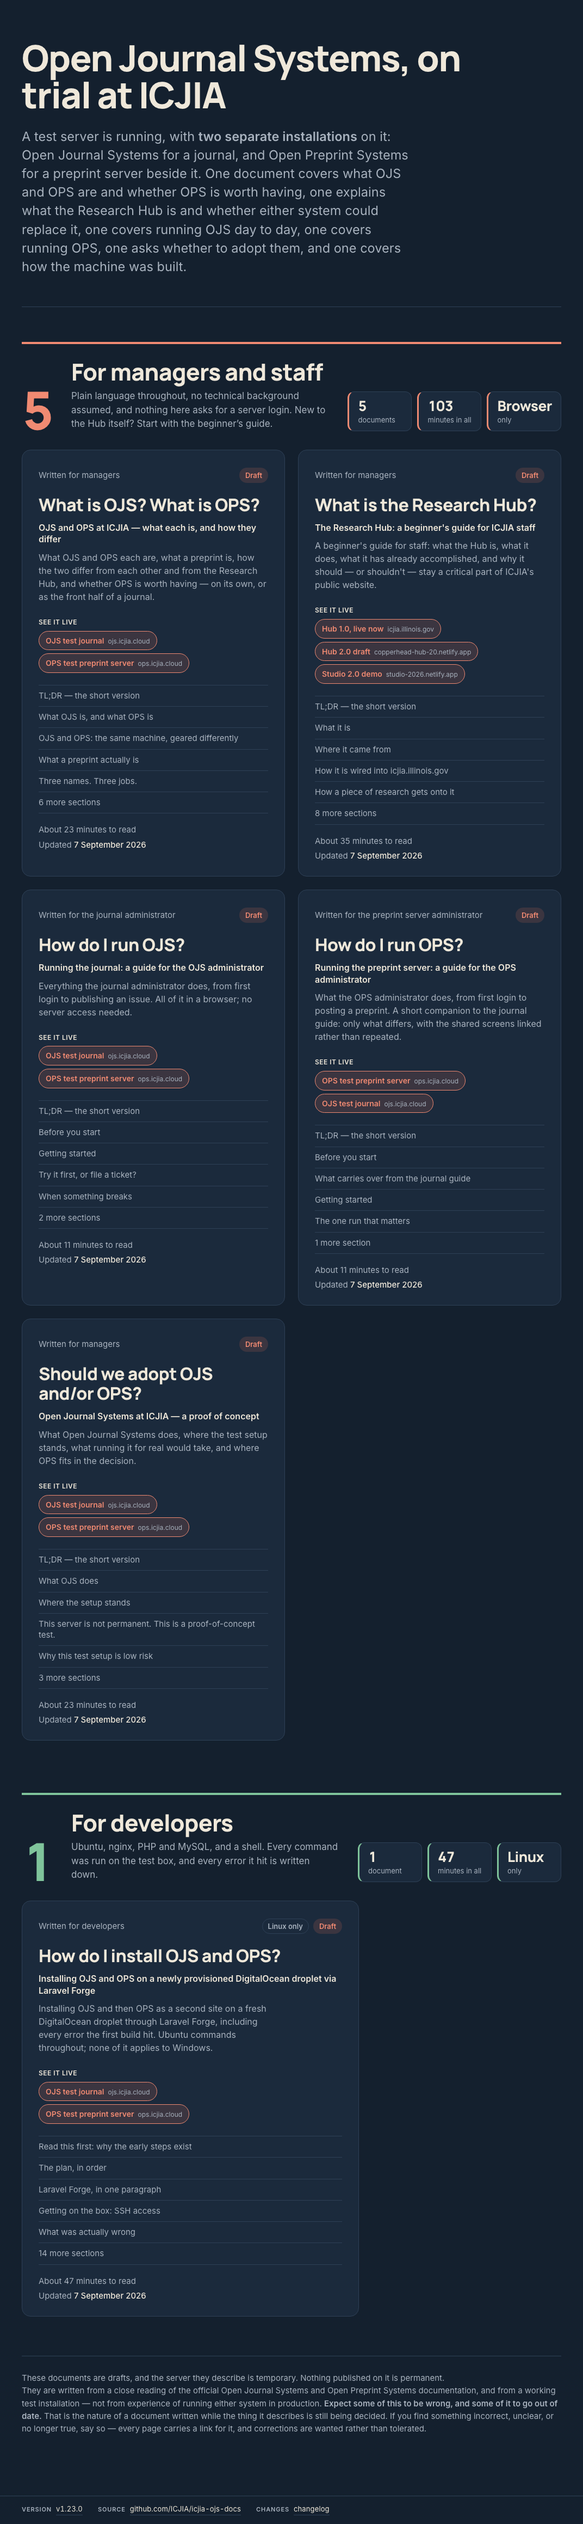
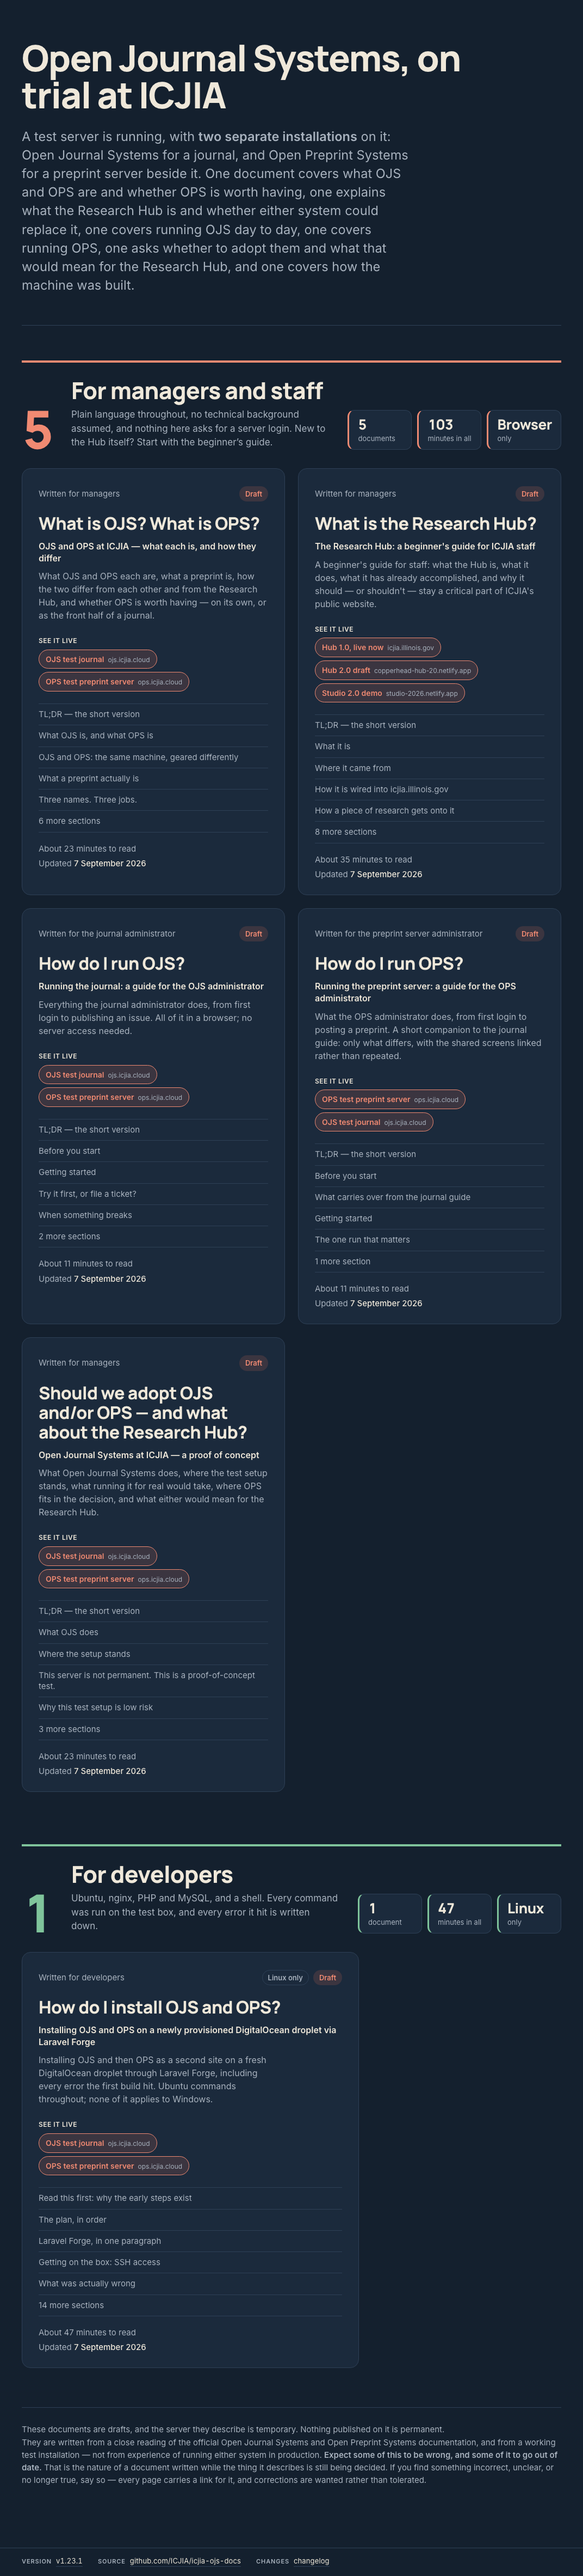
Release 1.23.1: the adoption card asks the whole question, and each page opens with its card's question
"Should we adopt OJS and/or OPS?" is now "Should we adopt OJS and/or OPS
- and what about the Research Hub?" on the card, in the portal lede, in
the README and on the banner, where the row runs to three lines with the
shelf lifted 28px so the developer row and the footer facts stay put.

Every document's h1 now repeats its card's question word for word; the
descriptive <title> stays as the subtitle on the card, in the sticky
header and in the browser tab. Four documents changed headline (the two
administrator guides, the proof of concept and the runbook); two already
matched. A build-output test holds h1 and question together, decoding the
entities headings use, so a renamed card cannot drift from its page.

Screenshots retaken, banner re-rendered at 213 tests, changelog entry
added.

diff --git a/tests/build-output.test.ts b/tests/build-output.test.ts
@@ -7,6 +7,23 @@ import pkg from '../package.json';
 
 const root = fileURLToPath(new URL('..', import.meta.url));
 const dist = (p: string) => fileURLToPath(new URL(`../dist/${p}`, import.meta.url));
+
+/** Decode the handful of entities the documents use inside headings. */
+const decodeEntities = (s: string) =>
+  s
+    .replace(/&mdash;/g, '\u2014')
+    .replace(/&ndash;/g, '\u2013')
+    .replace(/&nbsp;/g, ' ')
+    .replace(/&rsquo;/g, '\u2019')
+    .replace(/&lsquo;/g, '\u2018')
+    .replace(/&ldquo;/g, '\u201c')
+    .replace(/&rdquo;/g, '\u201d')
+    .replace(/&hellip;/g, '\u2026')
+    .replace(/&quot;/g, '"')
+    .replace(/&#39;|&#x27;/g, "'")
+    .replace(/&#(\d+);/g, (_, n) => String.fromCodePoint(Number(n)))
+    .replace(/&#x([0-9a-f]+);/gi, (_, h) => String.fromCodePoint(parseInt(h, 16)))
+    .replace(/&amp;/g, '&');
 const read = (p: string) => readFileSync(dist(p), 'utf8');
 
 /** The named and numeric entities Astro emits when escaping interpolated text. */
@@ -40,6 +57,18 @@ describe('build output', () => {
       for (const live of entry.live ?? []) {
         expect(html, `${entry.slug}: live link ${live.href} missing from its card`).toContain(`href="${live.href}"`);
       }
+    }
+  });
+
+  it('opens every page with its card question as the h1', () => {
+    // The card's question is what a reader clicks; the page they land on must
+    // open with the same words. The descriptive <title> stays the subtitle.
+    for (const entry of documents) {
+      const html = readFileSync(dist(`docs/${entry.slug}/index.html`), 'utf8');
+      const match = html.match(/<h1[^>]*>([\s\S]*?)<\/h1>/);
+      expect(match, `${entry.slug} has an h1`).not.toBeNull();
+      const h1 = decodeEntities(match![1].replace(/<[^>]+>/g, '')).replace(/\s+/g, ' ').trim();
+      expect(h1, `${entry.slug}: the h1 must echo the card question`).toBe(entry.question);
     }
   });
 

diff --git a/src/documents/forge-droplet-runbook.html b/src/documents/forge-droplet-runbook.html
@@ -160,7 +160,7 @@
 <main class="page">
 
 <header>
-  <h1>Installing OJS and OPS on a newly provisioned DigitalOcean droplet via Laravel Forge</h1>
+  <h1>How do I install OJS and OPS?</h1>
   <p class="lede">Runbook for a brand-new Laravel Forge server on DigitalOcean, carrying <b>two separate installations</b> on one box: the CPU-eating package to remove first, the reason the site didn't serve, the prep before installing OJS, the install itself, the Mailgun hookup, then OPS as a second site &mdash; and the hardening, memory tuning, backups, upgrades and restores that from then on have to cover both.</p>
   <p class="updated"><span class="lab">Last updated</span><time datetime="2026-09-07">7 September 2026</time></p>
   <p class="see"><span class="k">See it live:</span> <a href="https://ojs.icjia.cloud/">OJS test journal <small>ojs.icjia.cloud</small></a> <a href="https://ops.icjia.cloud/">OPS test preprint server <small>ops.icjia.cloud</small></a> <span class="why">Both answer over HTTPS now; <a href="https://uptime.icjia.app">uptime.icjia.app</a> watches them.</span></p>

diff --git a/src/documents/ops-administrator-guide.html b/src/documents/ops-administrator-guide.html
@@ -271,7 +271,7 @@
 <main class="page">
 
 <header>
-  <h1>Running the preprint server</h1>
+  <h1>How do I run OPS?</h1>
   <p class="lede">Everything the OPS administrator does, from first login to posting a preprint &mdash; all of it in a web browser.</p>
   <p class="updated"><span class="lab">Last updated</span><time datetime="2026-09-07">7 September 2026</time></p>
   <p class="see"><span class="k">See it live:</span> <a href="https://ops.icjia.cloud/">OPS test preprint server <small>ops.icjia.cloud</small></a> <a href="https://ojs.icjia.cloud/">OJS test journal <small>ojs.icjia.cloud</small></a> <span class="why">Both are up now. The public pages need no login; your administrator screens need the OPS login IDS sent you, which is not the OJS one.</span></p>

diff --git a/src/documents/ojs-administrator-guide.html b/src/documents/ojs-administrator-guide.html
@@ -271,7 +271,7 @@
 <main class="page">
 
 <header>
-  <h1>Running the journal</h1>
+  <h1>How do I run OJS?</h1>
   <p class="lede">Everything the OJS administrator does, from first login to publishing an issue &mdash; all of it in a web browser.</p>
   <p class="updated"><span class="lab">Last updated</span><time datetime="2026-09-07">7 September 2026</time></p>
   <p class="see"><span class="k">See it live:</span> <a href="https://ojs.icjia.cloud/">OJS test journal <small>ojs.icjia.cloud</small></a> <a href="https://ops.icjia.cloud/">OPS test preprint server <small>ops.icjia.cloud</small></a> <span class="why">Both are up now. The public pages need no login; your administrator screens need the login IDS sent you.</span></p>

diff --git a/src/content/documents.ts b/src/content/documents.ts
@@ -39,9 +39,9 @@ export const documents: DocumentEntry[] = [
   {
     slug: 'ojs-proof-of-concept',
     file: 'ojs-proof-of-concept.html',
-    question: 'Should we adopt OJS and/or OPS?',
+    question: 'Should we adopt OJS and/or OPS — and what about the Research Hub?',
     summary:
-      'What Open Journal Systems does, where the test setup stands, what running it for real would take, and where OPS fits in the decision.',
+      'What Open Journal Systems does, where the test setup stands, what running it for real would take, where OPS fits in the decision, and what either would mean for the Research Hub.',
     audience: 'Written for managers',
     status: 'draft',
     order: 5,

diff --git a/src/documents/ojs-proof-of-concept.html b/src/documents/ojs-proof-of-concept.html
@@ -280,7 +280,7 @@
 <main class="page">
 
   <header>
-    <h1>A test drive of Open Journal Systems</h1>
+    <h1>Should we adopt OJS and/or OPS &mdash; and what about the Research Hub?</h1>
     <p class="lede">
       <b>Open Journal Systems (OJS)</b> is free software for running a research journal:
       it collects submissions, routes them to reviewers, tracks edits, and publishes the

diff --git a/README.md b/README.md
@@ -10,7 +10,7 @@
   <a href="https://ojs-docs.netlify.app"><img alt="Live site" src="https://img.shields.io/badge/live-ojs--docs.netlify.app-f08a72?style=flat-square&labelColor=14202e"></a>
   <a href="https://github.com/ICJIA/icjia-ojs-docs/releases"><img alt="Release" src="https://img.shields.io/github/v/release/ICJIA/icjia-ojs-docs?style=flat-square&color=f08a72&labelColor=14202e"></a>
   <a href="#accessibility"><img alt="WCAG 2.1 AA" src="https://img.shields.io/badge/WCAG_2.1-AA-7fc49b?style=flat-square&labelColor=14202e"></a>
-  <a href="#tests"><img alt="Tests" src="https://img.shields.io/badge/tests-212_passing-7fc49b?style=flat-square&labelColor=14202e"></a>
+  <a href="#tests"><img alt="Tests" src="https://img.shields.io/badge/tests-213_passing-7fc49b?style=flat-square&labelColor=14202e"></a>
   <img alt="Astro 7" src="https://img.shields.io/badge/Astro-7-f08a72?style=flat-square&labelColor=14202e">
   <a href="LICENSE"><img alt="MIT license" src="https://img.shields.io/badge/license-MIT-a8b2be?style=flat-square&labelColor=14202e"></a>
 </p>
@@ -23,8 +23,8 @@ Six documents are published today — an explainer of what OJS and OPS are
 and whether OPS is worth having, a beginner's guide to the Research Hub for staff
 that also answers whether either system could replace it, a guide for the
 journal administrator, a shorter one for the preprint server administrator, an
-overview for managers asking whether to adopt either system, and an
-installation runbook for developers. The managers' shelf defines things first
+overview for managers asking whether to adopt either system and what that would
+mean for the Research Hub, and an installation runbook for developers. The managers' shelf defines things first
 and ends on the adoption question. Each was added as advertised: one entry in
 the manifest, and the card, the route, the contents and the statistics followed
 on their own.
@@ -47,7 +47,7 @@ before changing any styling.
 
 <p align="center">
   <a href="https://ojs-docs.netlify.app/docs/droplet-runbook/">
-    <img src="docs/assets/runbook.png" alt="A document page: the portal's sticky header — back link, the runbook's title &ldquo;Installing OJS and OPS on a newly provisioned DigitalOcean droplet via Laravel Forge&rdquo;, and a Contents button — above the runbook's own title, lede, last-updated stamp and its strip of facts about the box: Ubuntu 26.04, Forge-provisioned, the symptom, and what it ends with. The status bar is pinned along the bottom of the viewport." width="900">
+    <img src="docs/assets/runbook.png" alt="A document page: the portal's sticky header — back link, the runbook's title &ldquo;Installing OJS and OPS on a newly provisioned DigitalOcean droplet via Laravel Forge&rdquo;, and a Contents button — above the runbook's own headline, &ldquo;How do I install OJS and OPS?&rdquo;, its lede, last-updated stamp and its strip of facts about the box: Ubuntu 26.04, Forge-provisioned, the symptom, and what it ends with. The status bar is pinned along the bottom of the viewport." width="900">
   </a>
 </p>
 
@@ -55,7 +55,10 @@ before changing any styling.
 
 ## Adding a document
 
-1. Put the HTML file in `src/documents/`.
+1. Put the HTML file in `src/documents/`. Its `<h1>` must be the card's
+   question, word for word — a test holds the two together — and its `<title>`
+   is the descriptive subtitle shown on the card, in the sticky header and in
+   the browser tab.
 2. Append an entry to `documents` in [`src/content/documents.ts`](src/content/documents.ts):
 
    ```ts
@@ -349,7 +352,7 @@ a version has no tag.
 
 ## Tests
 
-212 tests across six files.
+213 tests across six files.
 
 [`tests/parse-document.test.ts`](tests/parse-document.test.ts) covers the parser,
 which is a pure function: extraction, heading-id injection and slug
@@ -358,6 +361,7 @@ document has no title, headings, stylesheet or script.
 
 [`tests/build-output.test.ts`](tests/build-output.test.ts) builds the site and
 asserts on `dist/` — that every manifest entry produced a page, that each
+page opens with its card's question as its `h1`, that each
 document survived the wrap intact (every code block, its clipboard handler,
 its webfonts), that the document stylesheet still precedes the chrome's, that
 no personal name, unexpected email address or credential reached the published

diff --git a/CHANGELOG.md b/CHANGELOG.md
@@ -5,6 +5,25 @@ All notable changes to this project are documented here.
 The format follows [Keep a Changelog](https://keepachangelog.com/en/1.1.0/),
 and this project adheres to [Semantic Versioning](https://semver.org/spec/v2.0.0.html).
 
+## [1.23.1] - 2026-09-07
+
+### Changed
+
+- **The adoption card now asks the whole question.** "Should we adopt OJS
+  and/or OPS?" became "Should we adopt OJS and/or OPS — and what about the
+  Research Hub?", which is what the proof of concept actually answers:
+  replace the Hub, run beside it, or extend the Studio. The card summary,
+  the portal lede and the README say the same. On the banner the row runs
+  to three lines, with the shelf lifted by one line so the footer facts stay
+  where they were.
+- **Every page's headline is now its card's question.** Two documents already
+  opened with the question a reader clicked ("What is OJS? What is OPS?",
+  "What is the Research Hub?"); the other four opened with a different
+  heading. Each `<h1>` now repeats the card's question, and the descriptive
+  `<title>` stays as the subtitle on the card, in the sticky header and in the
+  browser tab. A build test holds the two together, so a card question cannot
+  drift from the page it opens.
+
 ## [1.23.0] - 2026-09-07
 
 ### Changed
@@ -1158,6 +1177,7 @@ Title II / IITAA review would expect.
 The contrast, heading-order and personal-name changes were made in the source
 documents, so the standalone files carry them too.
 
+[1.23.1]: https://github.com/ICJIA/icjia-ojs-docs/releases/tag/v1.23.1
 [1.23.0]: https://github.com/ICJIA/icjia-ojs-docs/releases/tag/v1.23.0
 [1.22.0]: https://github.com/ICJIA/icjia-ojs-docs/releases/tag/v1.22.0
 [1.21.1]: https://github.com/ICJIA/icjia-ojs-docs/releases/tag/v1.21.1
